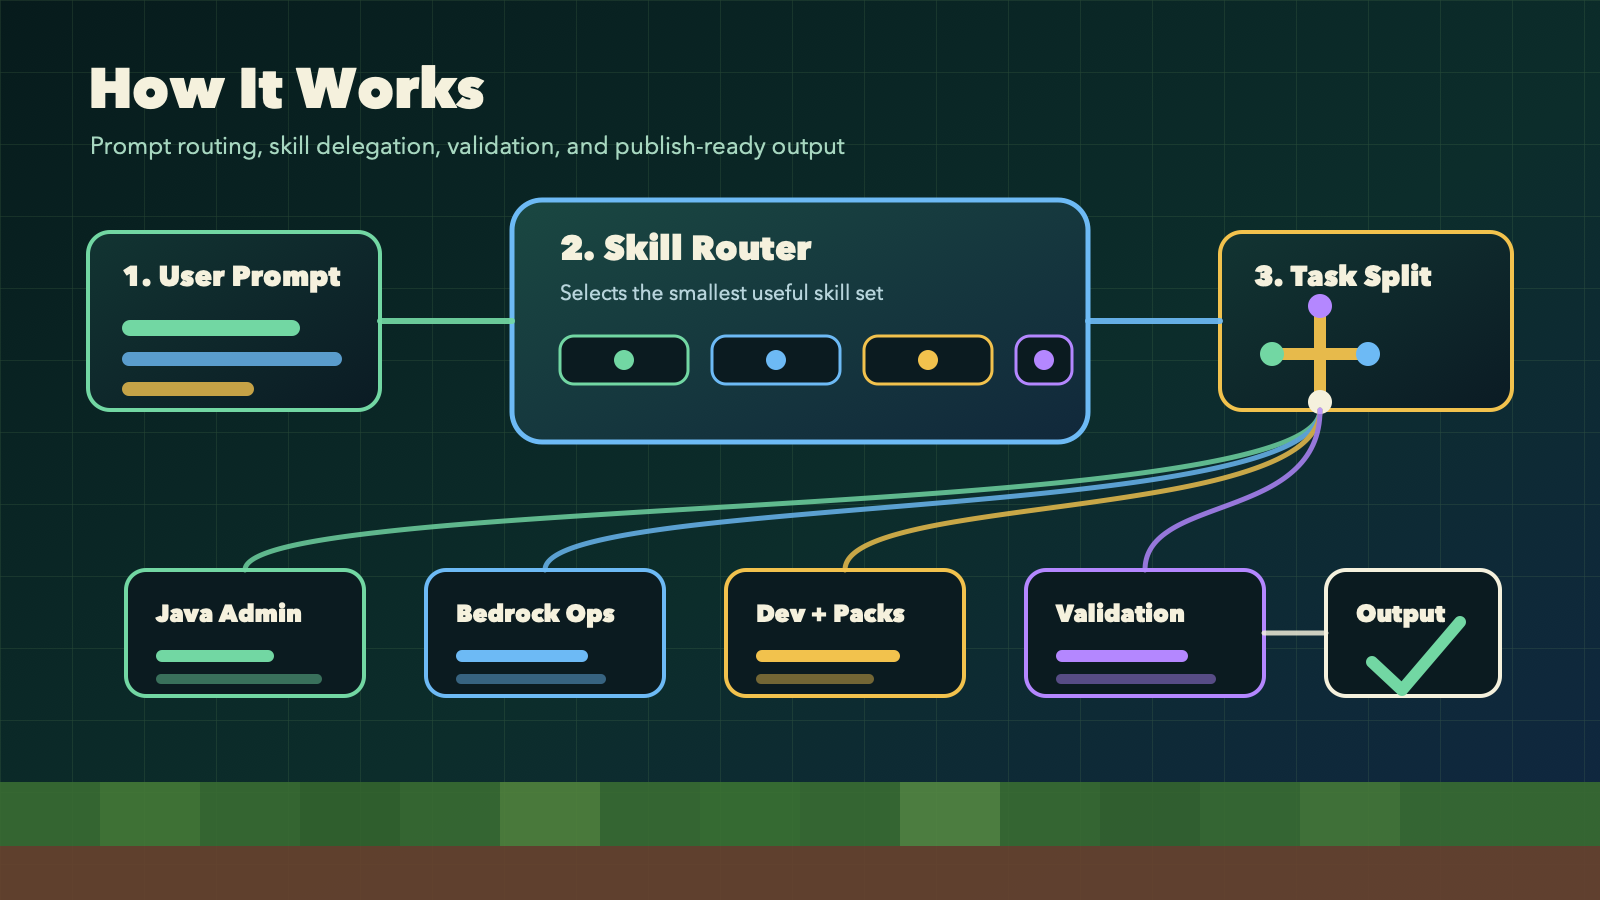
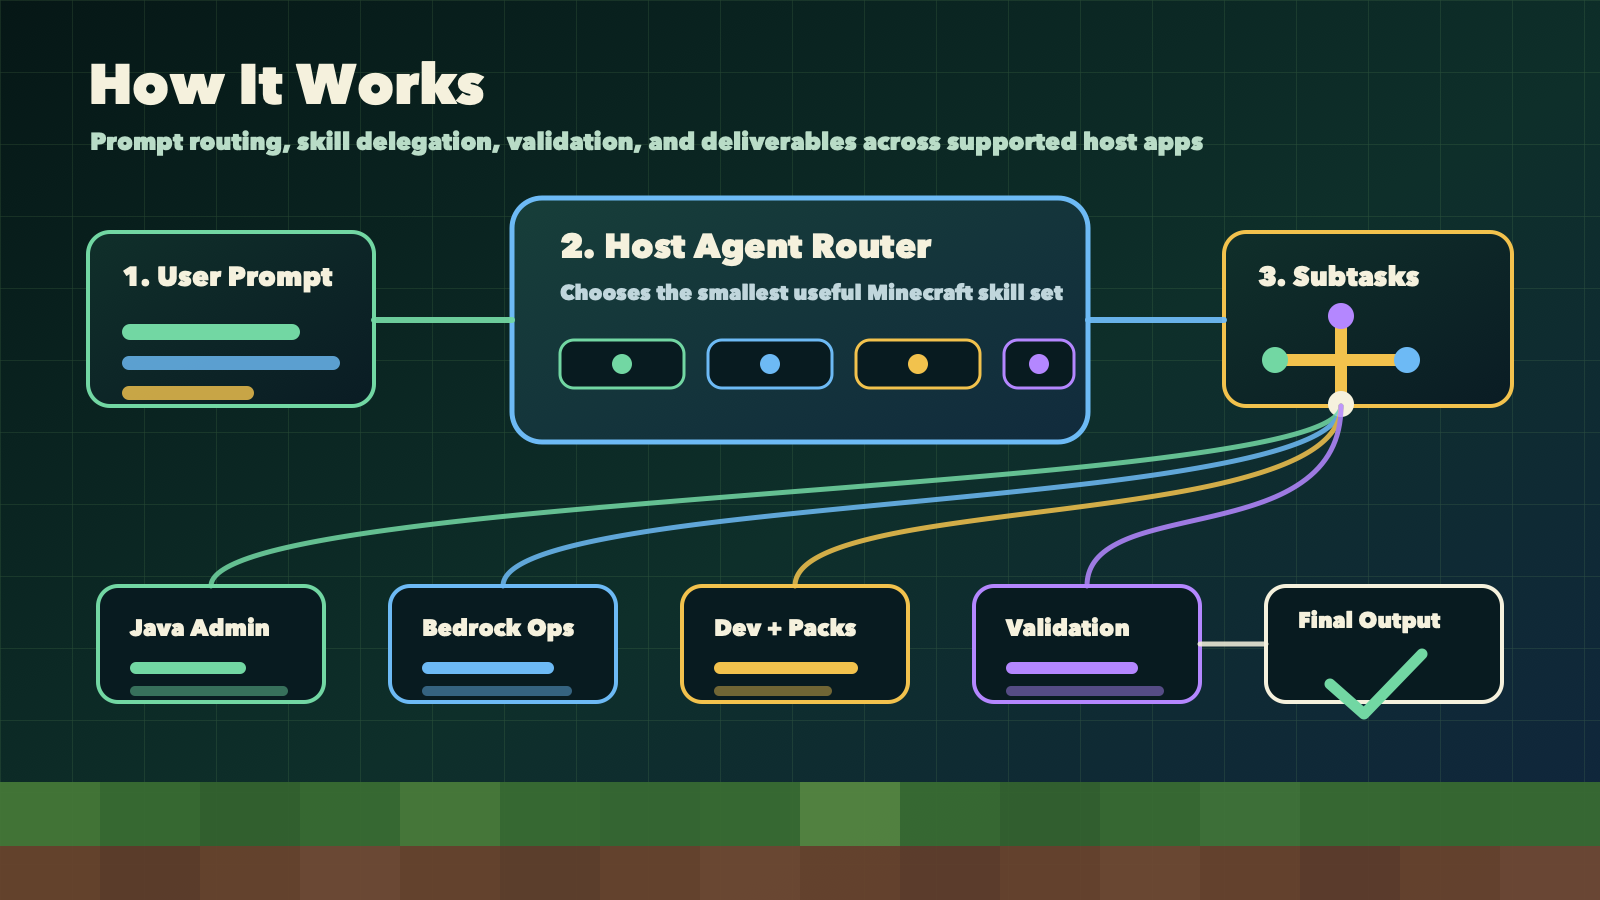
Polish workflow image and prepare v1.0.0 release

diff --git a/CHANGELOG.md b/CHANGELOG.md
@@ -3,210 +3,27 @@
 All notable changes to this project will be documented in this file.
 Format follows [Keep a Changelog](https://keepachangelog.com/en/1.0.0/).
 
-## [Unreleased]
+## [1.0.0] - 2026-05-22
 
 ### Added
 
-- Added five advanced Minecraft administration/development skills: `minecraft-bedrock-server-admin`, `minecraft-bedrock-addon-dev`, `minecraft-resource-pack-conversion`, `minecraft-crossplay-ops`, and `minecraft-permissions-admin`
-- Added a conservative Java-to-Bedrock resource-pack conversion helper that creates `.mcpack` outputs, writes Bedrock `manifest.json`, copies simple texture assets, and reports unsupported Java-only assets
-- Added role-routing guidance for Minecraft Administrator and Minecraft Server Developer workflows across Java, Bedrock, permissions, crossplay, and pack conversion tasks
-- Added Java server admin marketplace/archetype references and a read-only server folder/zip analyzer for plugin inventory, dependency warnings, proxy hints, backups, worlds, and suspicious jar review
-- Added original Agent Console README banner, square icon, and How It Works workflow image assets for the public `minecraft-agent-skills-bundle` repository
+- Published the original `minecraft-agent-skills-bundle` repository as a standalone 18-skill Minecraft agent bundle.
+- Added five advanced Minecraft administration and development skills: `minecraft-bedrock-server-admin`, `minecraft-bedrock-addon-dev`, `minecraft-resource-pack-conversion`, `minecraft-crossplay-ops`, and `minecraft-permissions-admin`.
+- Added Java server admin marketplace and archetype references plus a read-only server folder/zip analyzer for plugin inventory, dependency warnings, proxy hints, backups, worlds, and suspicious jar review.
+- Added a conservative Java-to-Bedrock resource-pack conversion helper that creates `.mcpack` outputs, writes Bedrock `manifest.json`, copies simple texture assets, and reports unsupported Java-only assets.
+- Added role-routing guidance for Minecraft Administrator and Minecraft Server Developer workflows across Java, Bedrock, permissions, crossplay, server development, and pack conversion tasks.
+- Added original README branding assets: Agent Console banner, square icon, and polished How It Works workflow diagram.
 
 ### Changed
 
-- Expanded the bundle and plugin metadata from 13 to 18 skills, with Java and Bedrock coverage in README, AGENTS guidance, plugin docs, and repository metadata
-- Enhanced `minecraft-server-admin` as the Java server/plugin orchestrator for Paper, Purpur, Folia, Velocity, plugin marketplaces, server archetypes, compatibility planning, and existing server analysis
-- Rebranded public repository metadata and install links for `AIKUSAN/minecraft-agent-skills-bundle` while preserving the `minecraft-codex-skills` plugin identifier
-- Rewrote the root README and plugin README around the standalone, not-a-fork project identity, practical install paths, and skill routing groups
-- Fixed the Paper plugin layout validator so dotted Java main classes resolve to slash-separated source paths during fixture validation
-- Made multiloader and worldgen validator scripts portable to the default macOS Bash 3.2 shell
-- Hardened the validator fixture harness so expected-pass fixtures preserve failing child-command statuses instead of reporting green after internal validator failures
-- Made bundled datapack, resource-pack, and worldgen validators tolerate CRLF-affected `jq -r` output on Windows/Git Bash by stripping trailing carriage returns before resolving references
-- Refactored `minecraft-plugin-dev` runtime guidance into a leaner `SKILL.md` plus `references/runtime-patterns.md` for scheduler, Folia, PDC, Adventure, YAML config, Vault, and Paper-specific API examples
-- Replaced the README workflow SVG with a generated original PNG workflow diagram and refreshed the public README asset references
+- Established `1.0.0` as the first public version for this original standalone bundle.
+- Rebranded public repository metadata, install links, README copy, and plugin docs for `AIKUSAN/minecraft-agent-skills-bundle` while preserving the `minecraft-codex-skills` plugin identifier.
+- Rewrote the root README and plugin README around the standalone, not-a-fork project identity, practical install paths, supported host apps, and skill routing groups.
+- Enhanced `minecraft-server-admin` as the Java server and plugin orchestrator for Paper, Purpur, Folia, Velocity, plugin marketplaces, server archetypes, compatibility planning, and existing server analysis.
+- Expanded the bundle and plugin metadata from 13 to 18 skills, with Java and Bedrock coverage in README, AGENTS guidance, plugin docs, and repository metadata.
+- Refreshed validation fixtures and docs for resource-pack conversion, server analysis, plugin layout checks, version drift checks, markdown linting, community files, workflow pinning, and plugin bundle validation.
 
-## [2.4.2] - 2026-05-04
+### Validation
 
-### Changed
-
-- Normalized SKILL.md frontmatter descriptions to single-line quoted format across all 13 skills, per Agent Skills open standard and official Codex/Claude Code documentation best practices (avoids block-scalar whitespace-folding ambiguity during truncation)
-- Added explicit "Use when..." routing trigger to `minecraft-ci-release` description, which was the only skill missing one
-- Improved `minecraft-datapack`: removed redundant "What Is a Datapack?" intro section and full selector reference (deferred to `minecraft-commands-scripting`); condensed execute subcommands to datapack-specific patterns (chained execute, store result, dimension routing); renamed "NBT and storage" to "Storage NBT (datapack-specific global state)"; added validator step to development workflow before `/reload`
-- Improved `minecraft-essentials-ops`: removed redundant "Scope and Positioning" prose section; fixed duplicate `1.` numbered list bug in sign shops runbook; added separate sign shop `[Buy]`/`[Sell]` format examples; added kit `config.yml` YAML example; added troubleshooting hints to mute, jail, and tempban workflows; fixed duplicate `1.` at end of Safe Config Rollout runbook (now correctly numbered 1–6)
-- Improved `minecraft-plugin-dev`: refined scheduler inline comments for clarity; reorganized "Build & Run" into numbered "Build, Validate, and Run" steps (build → validate → fix → deploy); merged separate "Validator Script" section into the build steps
-- Improved `minecraft-testing`: removed boilerplate `@BeforeEach` empty placeholder; removed generic MockBukkit intro paragraph; added four-step GameTest setup checklist (structure files, run server, check output, fix timeouts) before the Running GameTests section
-- Improved `minecraft-world-generation`: merged "Testing Worldgen" and "Validator Script" sections into a unified seven-step "Development Workflow" (edit → validate → fix → in-game biome testing → dimension testing → check logs → reload note with fresh-world/chunk guidance)
-- Synced all description and content changes to `.codex/skills/`, `.claude/skills/`, and `plugins/minecraft-codex-skills/skills/` mirrors
-- Documented repository independence from Mojang/Microsoft in `README.md` and `TERMS.md`, and set least-privilege `contents: read` permissions on the skills audit workflow
-
-## [2.4.1] - 2026-04-21
-
-### Added
-
-- New `minecraft-imagegen` skill for Minecraft pack art, thumbnails, concept textures, and UI/mockup workflows using Codex's built-in image generation tool
-- Public repo-policy docs at `CONTRIBUTING.md`, `SECURITY.md`, `PRIVACY.md`, and `TERMS.md` to make the open-source maintenance/disclosure model explicit
-- Bundled support assets for previously thin skills: image-generation prompt/asset references plus a brief scaffold script, and compact rollout/safety references for server-admin, WorldEdit ops, and EssentialsX ops
-
-### Changed
-
-- Updated top-level docs and plugin docs to reflect the 13-skill collection, current Codex skills/plugin terminology, and Codex local plugin cache behavior
-- Enriched the Codex plugin manifest with install-surface metadata recommended by current plugin docs, and hardened plugin/community validation around that metadata
-- Tightened the repo's skill authoring standard so new multi-workflow skills are expected to ship support assets and end-to-end examples, with structure/docs updated in the same change
-- Bumped package and plugin metadata to version `2.4.1` and refreshed the README explainer asset to reflect all 13 skills plus Codex-first image-generation support
-
-## [2.4.0] - 2026-04-04
-
-### Added
-
-- Targeted `scripts/check-version-drift.mjs` guard plus validator fixture coverage for modern `pack.mcmeta` metadata, multiloader version sanity, and testing layout checks
-- Bundled support assets for previously thin skills: Architectury reference/checker, testing layout reference/validator, and commands execute/selector cheat sheets with example scripts
-
-### Changed
-
-- Refreshed the repo's 1.21.x guidance around the 1.21.11 line across modding, multiloader, datapack, resource-pack, CI/release, and top-level docs
-- Updated datapack and resource-pack docs plus validators to support both legacy `pack_format` metadata and newer `min_format` / `max_format` metadata for 1.21.9+
-- Expanded Paper plugin/testing guidance with `paper-plugin.yml`, Folia-safe scheduler patterns, and newer PDC examples
-
-## [2.3.3] - 2026-03-29
-
-### Added (2.3.3)
-
-- Canonical skill index at `.agents/skills/README.md` plus mirrored copies at `.codex/skills/README.md`, `.claude/skills/README.md`, and `plugins/minecraft-codex-skills/skills/README.md`
-- New `minecraft-worldedit-ops` skill with practical command workflows for selections, masks, clipboards/schematics, terraforming brushes, and rollback-safe operations
-- New `minecraft-essentials-ops` skill with EssentialsX-focused runbooks for economy, kits/warps/homes, permissions, and moderation workflows
-- Companion mirror docs at `.codex/README.md` and `.claude/README.md` describing canonical-first edit flow
-
-### Changed (2.3.3)
-
-- Reworked `minecraft-server-admin` into deployment-driven operations guidance with explicit environment routing, server-type decision matrix, and concrete playbooks for performance, plugin operations, proxy/forwarding, backup/recovery, and incident troubleshooting
-- Hardened `scripts/sync-skills-layout.sh` and `scripts/audit-skills.mjs` to require a canonical/mirrored skills index and fail fast when index files are missing
-- Updated top-level docs and plugin docs for the expanded 12-skill inventory, including README skill tables and `AGENTS.md` selection guidance
-- Updated `docs/assets/how-it-works.svg` to display a 12-skill bundle surface
-- Bumped package and plugin metadata to version `2.3.3`
-
-## [2.3.1] - 2026-03-27
-
-### Changed (2.3.1)
-
-- Renamed the GitHub repository to `minecraft-agent-skills` and updated public URLs, badges, and metadata while keeping the bundled plugin identifier `minecraft-codex-skills` for install compatibility
-
-## [2.3.0] - 2026-03-27
-
-### Added (2.3.0)
-
-- Dual-target plugin bundle at `plugins/minecraft-codex-skills/` with `.codex-plugin/plugin.json`, `.claude-plugin/plugin.json`, and a synced shared `skills/` tree
-- `.agents/plugins/marketplace.json` so Codex can load the local plugin bundle from a repo marketplace entry
-- `.gitattributes` to keep Markdown, shell, JSON, and workflow checkouts consistent for contributors across platforms
-
-### Changed (2.3.0)
-
-- Made `scripts/audit-skills.mjs` tolerant of CRLF and BOM-prefixed files so the skill audit behaves consistently across Windows and Linux checkouts
-- Extended mirror-sync validation to cover the plugin bundle in addition to `.codex/skills/` and `.claude/skills/`
-- Added `scripts/validate-plugin-bundle.mjs` and wired it into `npm run check` plus GitHub Actions so plugin manifests, marketplace metadata, and required plugin README install guidance cannot drift silently
-- Removed the remaining mirror-unsafe `.agents/skills/...` references from bundled skill documentation
-- Updated README, plugin README, and CONTRIBUTING guidance to document the repo-marketplace Codex install flow, plugin installs, and Windows maintainer prerequisites more accurately
-
-## [2.2.0] - 2026-03-14
-
-### Changed (2.2.0)
-
-- Made the `plugin-dev` validator's valid Java fixture self-contained by adding a minimal `org.bukkit.plugin.java.JavaPlugin` stub, preventing editor diagnostics in the repo without changing validator behavior
-- Hardened bundled validators and fixture coverage for malformed workflow YAML, missing workflow action refs, PR gitleaks token wiring, empty worldgen roots, legacy `biome_modifiers` paths, worldgen dimension reference checks across local namespaces, invalid dimension JSON handling, invalid `tags/worldgen` layouts, and strict-mode tag-only / dimension-only packs
-- Replaced mirror-unsafe `.agents/...` validator command examples with mirror-safe `./scripts/...` usage
-- Standardized public versioning guidance on `{mod_version}+{mc_version}` and aligned bundled Fabric / NeoForge version snippets
-- Clarified Paper `api-version` guidance and fixed missing imports in the main plugin example
-- Added pinned Node maintainer tooling, CI doc-snippet validation, and a dedicated secret-scan workflow
-- Improved CONTRIBUTING / SECURITY guidance for both compatibility mirrors and private vulnerability reporting
-- Added GitHub community health files (`CODEOWNERS`, PR template, issue forms) plus CI-enforced validation that those public repo files remain present and structured
-- Documented the intended protected-branch policy for `main` so GitHub settings match the repo's local release and audit workflow
-
-## [2.1.0] - 2026-03-07
-
-### Added (2.1.0)
-
-- Canonical skills tree at `.agents/skills/` with compatibility mirror policy for `.codex/skills/`
-- `scripts/sync-skills-layout.sh` to sync/check canonical and mirror skill trees
-- `scripts/audit-skills.mjs` to validate skill frontmatter, path consistency, placeholder safety, and mirror drift
-- `scripts/run-skill-validator-fixtures.sh` fixture harness to regression-test bundled skill validators
-- `scripts/setup-dev-tools.sh` to install/check local maintainer prerequisites (`jq`, `rsync`, `node`, `npm`)
-- `.github/workflows/skills-audit.yml` CI workflow to enforce sync and audit checks on push/PR
-- `docs/skill-authoring-standard.md` contributor standard for skill structure and quality rules
-- New bundled validators:
-  - `minecraft-datapack/scripts/validate-datapack.sh`
-  - `minecraft-resource-pack/scripts/validate-resource-pack.sh`
-  - `minecraft-ci-release/scripts/validate-workflow-snippets.sh`
-  - `minecraft-plugin-dev/scripts/validate-plugin-layout.sh`
-  - `minecraft-world-generation/scripts/validate-worldgen-json.sh`
-
-### Changed (2.1.0)
-
-- Normalized Minecraft 1.21.x resource path conventions across skills/references (`loot_table`, `tags/block`, `tags/item`, `biome_modifier`)
-- Fixed invalid/non-runnable snippets in NeoForge capability, Fabric GameTest, and command scripting examples
-- Corrected CI artifact glob examples and plugin packaging upload patterns in `minecraft-ci-release`
-- Removed `/reload` recommendation from plugin deployment guidance
-- Corrected server property key in security checklist (`max-players`)
-- Updated documentation to use `.agents/skills/` as canonical with `.codex/skills/` compatibility mirror
-- Updated `check-build.sh` to avoid GNU-only `grep -P` usage
-- Added explicit routing boundaries (`Use when` / `Do not use when`) to all 10 skills
-- Enforced routing-boundary structure checks in `scripts/audit-skills.mjs`
-- Hardened `check-build.sh` for Gradle Kotlin DSL files and Architectury multiloader outputs
-- Reworked README install commands to avoid hardcoded `yourname` URLs
-- Added validator script usage sections in affected skills and wired fixture tests into CI
-
-## [2.0.0] - 2026-03-07
-
-### Added (2.0.0)
-
-- `minecraft-plugin-dev/SKILL.md` — Paper/Bukkit server plugin development:
-  build.gradle.kts, plugin.yml reference, event listeners, commands, schedulers,
-  PDC, Adventure/MiniMessage, config.yml, Vault integration, Paper-specific async APIs
-- `minecraft-datapack/SKILL.md` — Vanilla datapack authoring: pack format numbers
-  for all 1.21.x versions, function tags, execute reference, macro functions,
-  advancements, recipe types, loot tables, predicates, worldgen overrides
-- `minecraft-commands-scripting/SKILL.md` — Vanilla commands and RCON scripting:
-  full selector reference, execute subcommands, scoreboards, NBT path syntax,
-  tellraw JSON text schema, teams, bossbars, RCON bash/Python patterns
-- `minecraft-multiloader/SKILL.md` — Architectury NeoForge + Fabric multiloader:
-  full 3-subproject layout, settings.gradle, build.gradle files, DeferredRegister
-  in common, @ExpectPlatform annotation, Fabric/NeoForge entrypoints
-- `minecraft-testing/SKILL.md` — Automated testing: JUnit 5, MockBukkit
-  (events, commands, inventory, scheduler, PDC), NeoForge GameTests,
-  Fabric GameTests, GitHub Actions CI matrix
-- `minecraft-ci-release/SKILL.md` — CI/CD and publishing: GitHub Actions build
-  and release workflows, Modrinth minotaur plugin, CurseForge gradle plugin,
-  semantic versioning, Dependabot, CHANGELOG format, release script
-- `minecraft-world-generation/SKILL.md` — Custom worldgen: biome JSON (full schema),
-  configured/placed features, dimension JSON, NeoForge BiomeModifier,
-  Fabric BiomeModifications API, structures (jigsaw), structure sets
-- `minecraft-resource-pack/SKILL.md` — Resource pack creation: pack format numbers,
-  block/item model schemas, blockstate definitions, animated textures, sounds.json,
-  language files, OptiFine CIT, Iris shaders, new 1.21.4 item model format
-- `minecraft-server-admin/SKILL.md` — Server administration: Aikar's JVM flags,
-  Paper config tuning, Spark monitoring, Docker/docker-compose, Velocity proxy,
-  backup scripts, security checklist
-- `AGENTS.md` — Updated to cover full 10-skill collection with skill selection table
-- `README.md` — Rewritten as collection overview with all 10 skills and examples
-
-## [1.0.0] - 2025-07-27
-
-### Added (1.0.0)
-
-- Initial release of the Minecraft Codex Skill
-- `SKILL.md` — NeoForge + Fabric platform detection, build commands, project layouts,
-  core concepts, NeoForge/Fabric quick patterns, JSON asset templates, datagen guide,
-  common tasks checklist, open-source conventions
-- `references/neoforge-api.md` — complete NeoForge 1.21.x API patterns:
-  mod entry point, mods.toml, DeferredRegister, BlockEntity, event bus,
-  Menu/GUI, capabilities, networking, biome modifiers, gradle.properties template
-- `references/fabric-api.md` — complete Fabric 1.21.x API patterns:
-  ModInitializer, fabric.mod.json, block/item registration, BlockEntity, Mixins,
-  Fabric events, networking, commands, custom GUI, gradle.properties template
-- `references/common-patterns.md` — cross-platform patterns: directional blocks,
-  slabs, stairs, food/tool/armor items, entity types, Brigadier commands,
-  all recipe types, tags, data gen providers (blockstate, item model, recipe,
-  loot table), language files, GitHub Actions CI, Modrinth/CurseForge publishing
-- `scripts/check-build.sh` — environment check script (Java 21, gradlew, platform detection, build)
-- `AGENTS.md` — guidance for Codex when working in the skill repository itself
-- `README.md` — installation guide, usage examples, feature table
-- `LICENSE` — MIT license
+- `bash ./scripts/sync-skills-layout.sh check`
+- `npm run check`